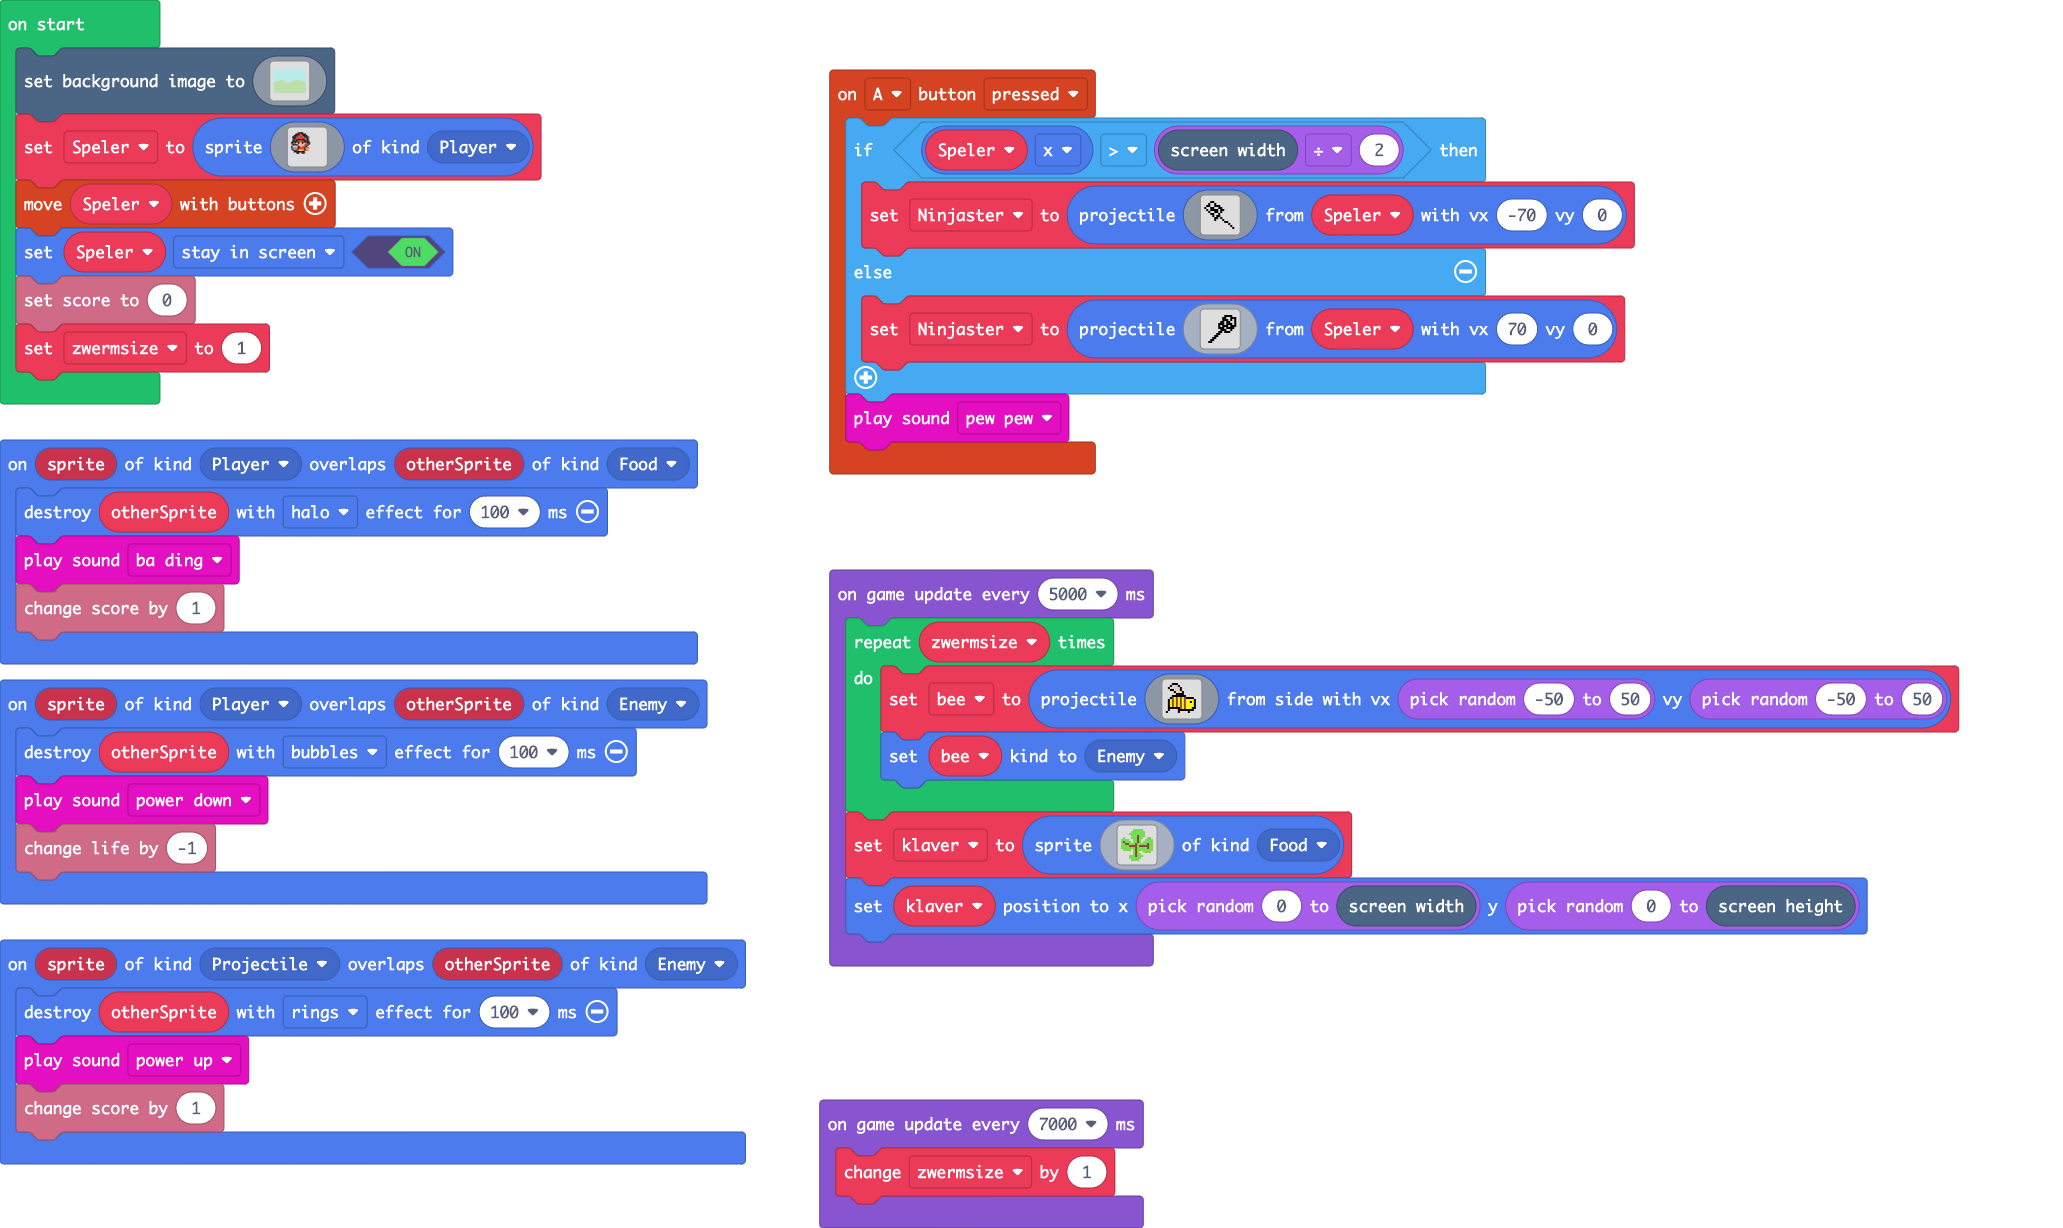
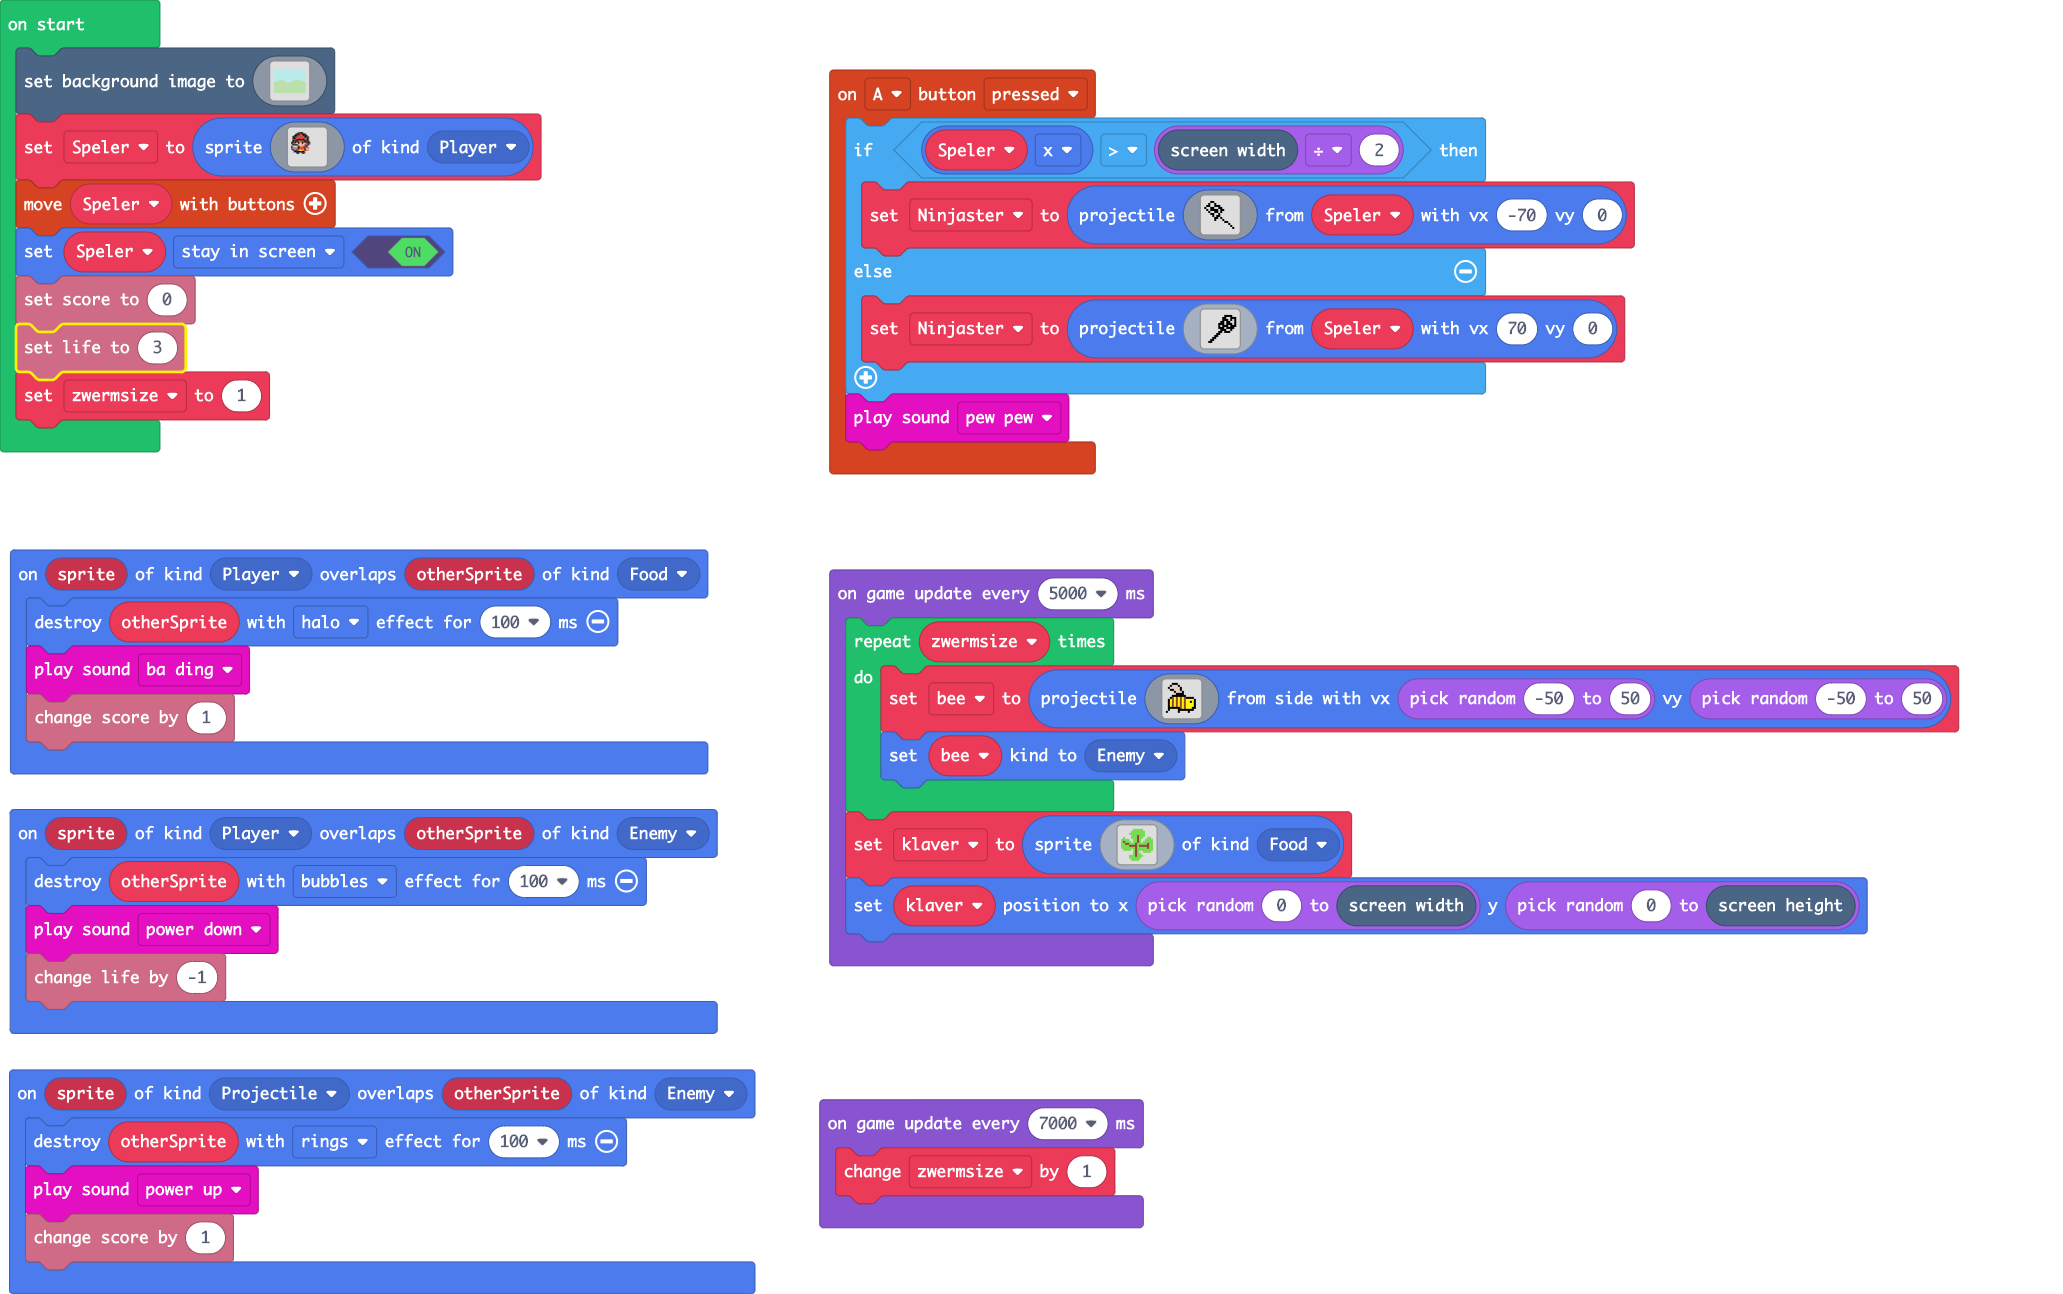
In het begin het aantal levens tonen

diff --git a/main.ts b/main.ts
@@ -210,6 +210,7 @@ Speler = sprites.create(img`
 controller.moveSprite(Speler)
 Speler.setFlag(SpriteFlag.StayInScreen, true)
 info.setScore(0)
+info.setLife(3)
 let zwermsize = 1
 game.onUpdateInterval(5000, function () {
     for (let index = 0; index < zwermsize; index++) {
